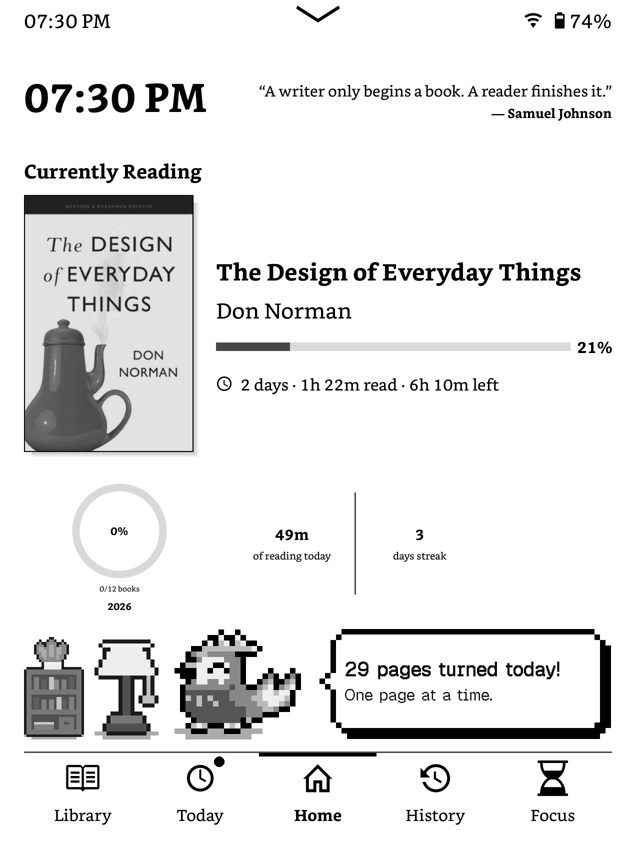
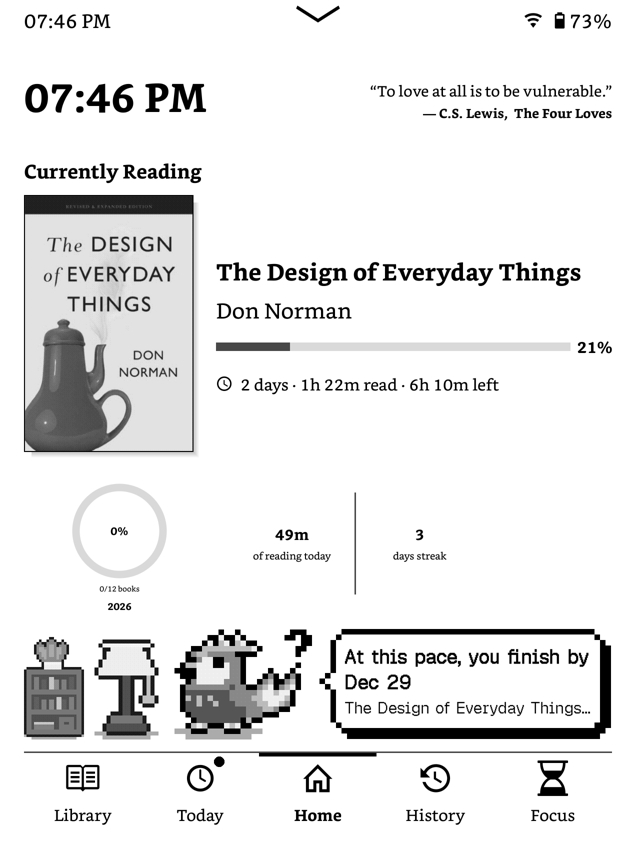
Anqa accessories (scarf, glasses, crown); morning/evening azkar line; Home critter says week summary and finish forecast

diff --git a/README.md b/README.md
@@ -32,7 +32,7 @@ Simple UI is the start screen and the screen after a book closes (Simple UI sett
 - **History**: newest first. Tap a session to change its label, date, start or end, or to delete it. **+ Add past session** adds one by hand. An end time before the start time is on the next day. Times in the future or more than 12 months ago are rejected. Sessions older than 12 months (day totals) cannot be edited.
 - **Idle view**: while the stopwatch runs and nobody touches it for `focus_idle_seconds`, it shows the label, the running time (h:mm:ss) and the weekly goal left, turned 90° clockwise. Only the time area is redrawn each second. A touch goes back to the stopwatch and does nothing else. While it runs, the stopwatch keeps the Kindle awake (KOReader auto-suspend paused, powerd `preventScreenSaver`); the power button still sleeps it.
 - **Session labels and weekly goals**: Start asks for a label (default: Work, Uni Study, Research Work, Personal Study; the last used label is first). The stopwatch shows one row per label with the time done this week (from Monday) and the time left to its weekly goal, or "Goal met". Tap **Labels** (when the stopwatch is not running) to add, rename or remove a label and to set its goal in hours. A removed label leaves the Start list only: its past sessions keep their label and still count.
-- **Anqa lock screen** while the device sleeps, unlocked with a swipe up. It is drawn at each sleep from KOReader's reading statistics: party (a book finished today), sad (no reading today), cheer (a 7-day streak or more), heart (daily goal met) or sleepy, with one line about today in Geist Pixel (Simple UI's pixel font, at a size that keeps its pixels sharp). While adhkar are due, a second line says "Don't forget your azkar".
+- **Anqa lock screen** while the device sleeps, unlocked with a swipe up. It is drawn at each sleep from KOReader's reading statistics: party (a book finished today), sad (no reading today), cheer (a 7-day streak or more), heart (daily goal met) or sleepy, with one line about today in Geist Pixel (Simple UI's pixel font, at a size that keeps its pixels sharp). While adhkar are due, a second line says "Don't forget your morning azkar" (or evening). Anqa wears a scarf at 5 books finished this year, glasses at 10, and a crown while the reading streak is 30 days or more.
 
 - **Bottom bar marks**: the Focus tab shows the running time (h:mm) and a dot while focus runs and the tab of a Custom Screen with the Adhkar reminder module shows a dot while adhkar are due. They are checked each minute.
 - **Arabic books** turn pages right-to-left automatically.
